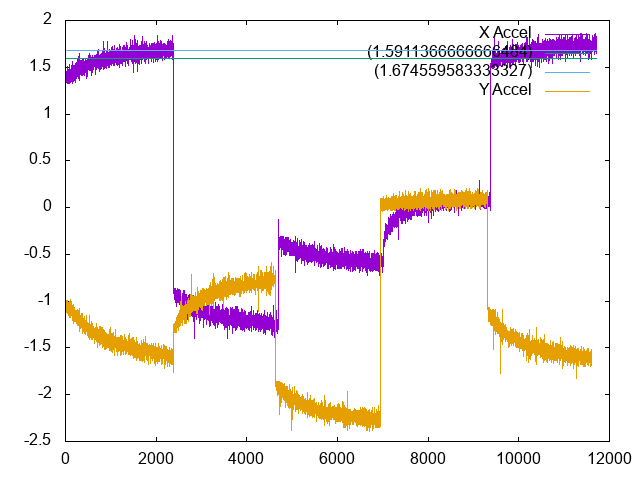
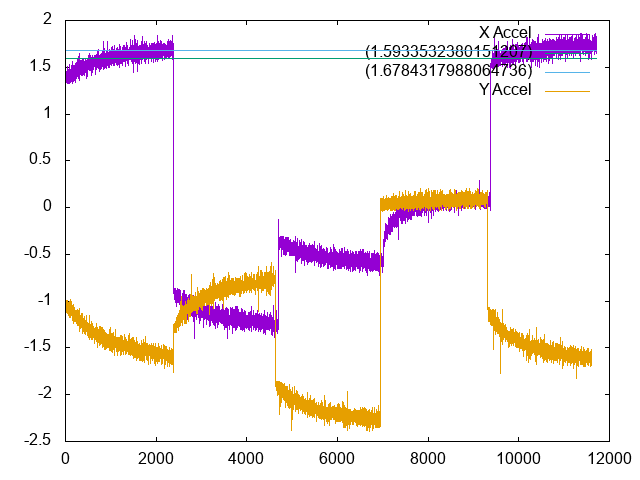
corrected average

Changed region(s): [[0.5625, 0.0938, 0.8438, 0.1562]]

diff --git a/cleaning.py b/cleaning.py
@@ -69,7 +69,7 @@ def getAvgs(root, name, extension, averages):
     del infile [-1]
     del infile [-1]
     averages.append(avgfn(infile))
-    # remove(root + name + extension)
+    remove(root + name + extension)
 
 def avgfn(infile):
     # calculates average of a file
@@ -89,7 +89,6 @@ def stdfn(infile, avg):
     return total/(len(infile))       
 
 ############################################################## MAIN ##############################################################
-
 
 def main():
     # definitely could be cleaner
@@ -131,6 +130,7 @@ def main():
             outliers = removeOutliers.Outliers(infile) # Create a new instance of Outliers class
             outliers.findOutliers()
             cleaned = outliers.removeOutliersFn()
+            outliers.replaceFile(root + i + j)
 
             # create a file called something like 'xaccelclean', append to the end
             with open(root+j+"clean", "a") as outfile:

diff --git a/removeOutliers.py b/removeOutliers.py
@@ -42,6 +42,11 @@ class Outliers:
             del self.infile[val]
         return(self.infile)
 
+    def replaceFile(self, filename):
+        with open(filename, "w") as outfile:
+            for line in self.infile:
+                outfile.write(line + "\n")
+
     def concat(self, infile, finalFilename):
         # stitch files back together in original format
         with open(finalFilename, "a") as outfile:

diff --git a/just_averages.py b/just_averages.py
@@ -72,6 +72,7 @@ def main():
                     for val in cleaned:
                         outfile.write(val.strip()+"\n")
         remove (root + folder + name)    # reduces clutter
+        # throwback to when this wasn't garbage
 
 
 
